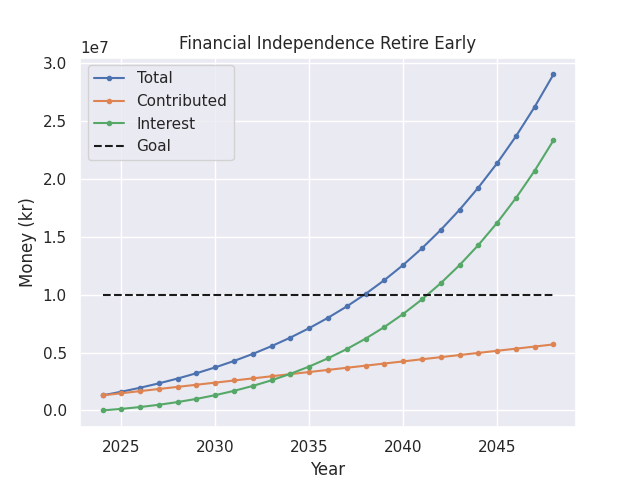
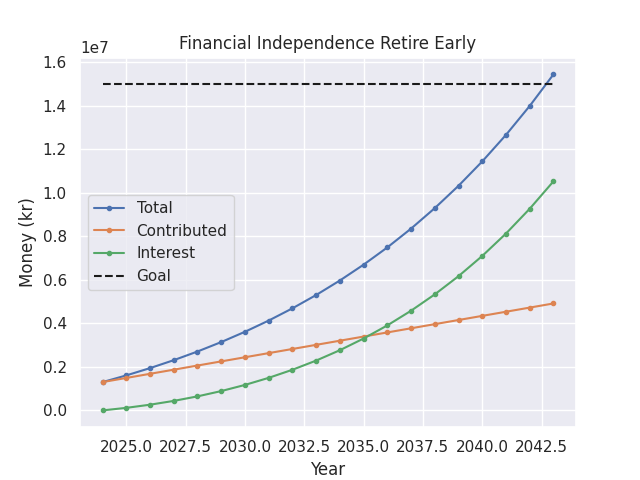
Small modification to the code

diff --git a/fire.py b/fire.py
@@ -13,10 +13,10 @@ class Persons_Finance:
             name="Mohamed Ismail", 
             birth_year=1996, 
             salary_income=6.5E5,
-            bonus_income=1.5E5,
+            bonus_income=0.5E5,
             saved=1.3E6, 
             necessities_rate=0.52, wants_rate=0.1, savings_rate=0.38, 
-            invest_info={'Interest': 0.08, 'Years': 20, 'Goal': 1.5E7, 'Invest': 0},
+            invest_info={'Interest': 0.09, 'Years': 20, 'Goal': 1.5E7, 'Invest': 0},
             tax_info={'min_deduction': 104450, 'personal_deduction': 88250, 'social_security_tax': 0.082, 'state_tax': 0.23, 'stage_tax': [0.017, 0.04, 0.136]},
             necessities={'Food': 3E3, 'Other': 4.5E3},
             housing={'Loan': 1.75E6, 'Start Time': datetime.datetime.strptime('15/09/2023', '%d/%m/%Y').date(), 'Years': 20, 'Interest': 0.0565, 'Serial Loan': False, 'Shared Costs': 4E3, 'Rent': 9E3, 'Extra contributions': 0},
@@ -165,7 +165,7 @@ class Persons_Finance:
 
         diff = df_Expected['Expected Living Cost'] - df_Actual['Actual Living Cost'] # Calculating the difference in budgeted and actual costs
         if diff > 0:
-            df_Actual['Student Loan'] = df_Actual['Student Loan'] + diff
+            df_Actual['Savings'] = df_Actual['Savings'] + diff
             df_Actual['Actual Living Cost'] = df_Actual['Actual Living Cost'] + diff
         else:
             df_Actual['Savings'] = df_Actual['Savings'] - abs(diff)
@@ -355,7 +355,7 @@ class Persons_Finance:
         F['Interest'] = [0]
     
         for y in range(1, len(years)):
-            cont = Contributions*12
+            cont = Contributions*12 # Contributions for the year multiplied with a 5% increase every year
             gain = F['Total'][y-1]*(1+r) - F['Contributed'][y-1]  
             total = F['Total'][y-1]*(1+r) + cont
             
@@ -377,7 +377,8 @@ class Persons_Finance:
         plt.legend(['Total', 'Contributed', 'Interest', 'Goal'])
         plt.xlabel("Year")
         plt.ylabel("Money (kr)")
-        plt.title("Financial Independence Retire Early")
+        plt.title("Financial Independence Retire Early") 
+        #plt.show()
         plt.savefig('FIRE.png')
 
         return df
